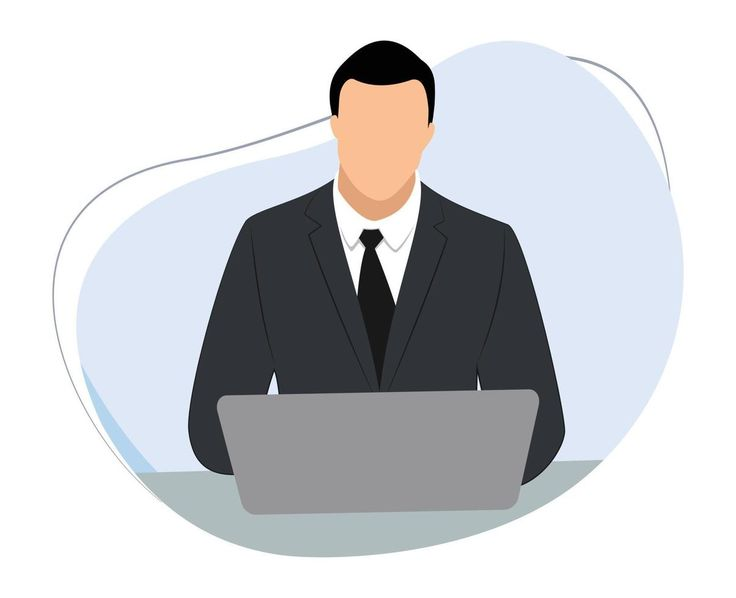
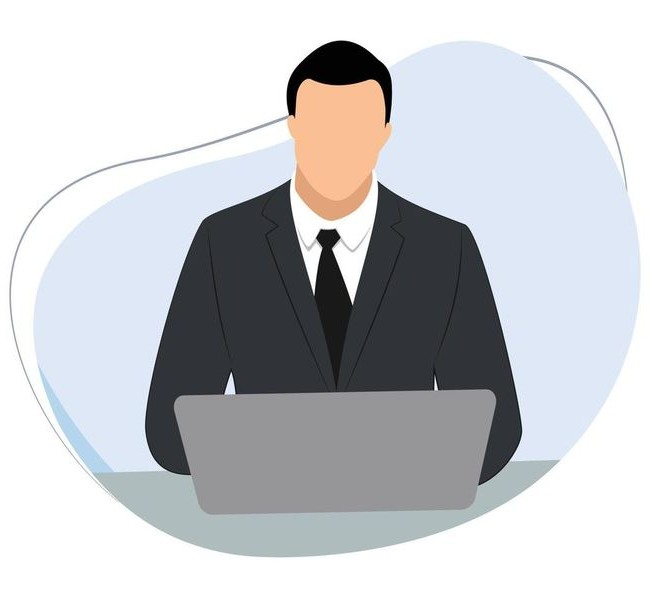
Update codding for all HTML and CSS file

diff --git a/Merit_Calculator.html b/Merit_Calculator.html
@@ -46,12 +46,14 @@
       <div class="container">
         <div class="stream-selector">
           <div class="label-box">Stream Type</div>
-          <select class="custom-select">
-            <option>CHOOSE STREAM</option>
-            <a href="homepages.html"><option>STEM A</option></a>
-            <option>STEM B</option>
-            <option>STEM C</option>
-            <option>KEMANUSIAAN DAN SASTERA IKHTISAS/ LAIN-LAIN</option>
+          <select id="streamSelector" class="custom-select">
+            <option value="">CHOOSE STREAM</option>
+            <option value="stem_a">STEM A</option>
+            <option value="stem_b">STEM B</option>
+            <option value="stem_c">STEM C</option>
+            <option value="ksi">
+              KEMANUSIAAN DAN SASTERA IKHTISAS/ LAIN-LAIN
+            </option>
           </select>
         </div>
 
@@ -116,19 +118,33 @@
             <div class="subject-card">
               <div class="label-box">Best Subject Package</div>
               <div class="input-group-row">
-                <select>
+                <select class="package-subject-select">
                   <option>CHOOSE SUBJECT</option>
                 </select>
-                <select>
+                <select class="grade-select">
                   <option>PILIH</option>
+                  <option>A+</option>
+                  <option>A</option>
+                  <option>A-</option>
+                  <option>B+</option>
+                  <option>B</option>
+                  <option>C+</option>
+                  <option>C</option>
                 </select>
               </div>
               <div class="input-group-row">
-                <select>
+                <select class="package-subject-select">
                   <option>CHOOSE SUBJECT</option>
                 </select>
                 <select>
                   <option>PILIH</option>
+                  <option>A+</option>
+                  <option>A</option>
+                  <option>A-</option>
+                  <option>B+</option>
+                  <option>B</option>
+                  <option>C+</option>
+                  <option>C</option>
                 </select>
               </div>
             </div>
@@ -136,19 +152,33 @@
             <div class="subject-card">
               <div class="label-box">Best Subject</div>
               <div class="input-group-row">
-                <select>
+                <select class="package-subject-select">
                   <option>CHOOSE SUBJECT</option>
                 </select>
                 <select>
                   <option>PILIH</option>
+                  <option>A+</option>
+                  <option>A</option>
+                  <option>A-</option>
+                  <option>B+</option>
+                  <option>B</option>
+                  <option>C+</option>
+                  <option>C</option>
                 </select>
               </div>
               <div class="input-group-row">
-                <select>
+                <select class="package-subject-select">
                   <option>CHOOSE SUBJECT</option>
                 </select>
                 <select>
                   <option>PILIH</option>
+                  <option>A+</option>
+                  <option>A</option>
+                  <option>A-</option>
+                  <option>B+</option>
+                  <option>B</option>
+                  <option>C+</option>
+                  <option>C</option>
                 </select>
               </div>
             </div>
@@ -206,5 +236,6 @@
         </div>
       </div>
     </main>
+    <script src="myScript.js"></script>
   </body>
 </html>

diff --git a/homepages.html b/homepages.html
@@ -57,7 +57,7 @@
     <section class="welcome container">
       <div class="welcome-grid">
         <div class="welcome-image">
-          <img src="director.jpeg" alt="Student Planning" />
+          <img src="career.jpeg" alt="Student Planning" />
         </div>
         <div class="welcome-text">
           <h2>Welcome to MyLuanier</h2>

diff --git a/Pathway_Advisor.html b/Pathway_Advisor.html
@@ -42,7 +42,7 @@
             results with the ideal course type.
           </p>
           <div class="advisor-image">
-            <img src="srmboys.jpeg" alt="Students studying" />
+            <img src="alkhaice.jpeg" alt="Students studying" />
           </div>
         </div>
       </section>

diff --git a/About_Us.html b/About_Us.html
@@ -60,7 +60,7 @@
         <div class="story-content">
           <h2>Our Story</h2>
           <div class="story-image">
-            <img src="alkhaice.jpeg" alt="Our Team" />
+            <img src="real.jpeg" alt="Our Team" />
           </div>
         </div>
       </div>

diff --git a/style.css b/style.css
@@ -153,7 +153,7 @@ nav a:hover {
 /* 2. HOMEPAGE */
 .hero {
   height: 450px;
-  background: url("lord.jpeg") no-repeat center center/cover;
+  background: url("YTM.jpeg") no-repeat center center/cover;
   position: relative;
   color: white;
   text-align: center;
